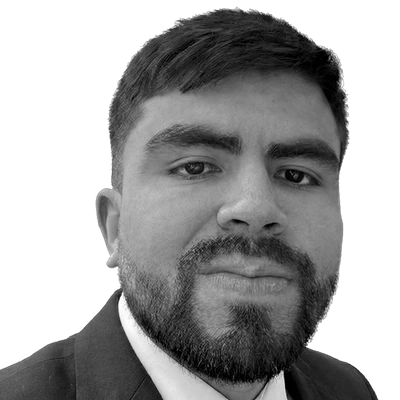
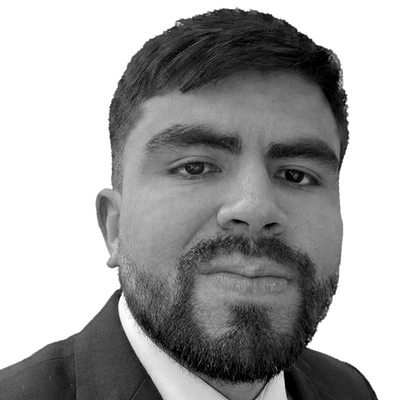
Fix the twelve findings from the UX audit
- Mobile menu: focus moves into the menu on open, Tab is trapped, main and
  footer become inert, and focus returns to the hamburger on close
- Project carousel: visible pause/resume control with aria-pressed; the hint
  says "Desliza" on touch instead of "Arrastra"
- Cards show a pointer cursor, open an on-site preview dialog instead of
  jumping to GitHub, and keep the repo link inside the dialog
- GitHub links in "otros proyectos" get specific accessible names
- Marquee pauses on hover
- Portrait recut: edge colours replaced so the white halo drops by 86%
- H1 keeps a space between the two words; card images use an empty alt;
  small mono labels move from 11 to 12px

diff --git a/src/components/Projects.tsx b/src/components/Projects.tsx
@@ -1,7 +1,8 @@
-import { useEffect, useRef } from 'react';
+import { useEffect, useRef, useState } from 'react';
 import { useTranslation } from 'react-i18next';
-import { showcaseProjects } from '../content/projects';
+import { showcaseProjects, type ShowcaseProject } from '../content/projects';
 import Reveal from './Reveal';
+import ProjectPreviewModal from './ProjectPreviewModal';
 
 interface ProjectCopy {
   title: string;
@@ -19,6 +20,10 @@ const SPEED = 45; // px per second
 export default function Projects() {
   const { t } = useTranslation();
   const railRef = useRef<HTMLDivElement>(null);
+  const [paused, setPaused] = useState(false);
+  const [preview, setPreview] = useState<ShowcaseProject | null>(null);
+  const pausedRef = useRef(false);
+  pausedRef.current = paused;
   const others = t('projects.items', { returnObjects: true }) as OtherProject[];
 
   // Drag to scroll
@@ -97,7 +102,8 @@ export default function Projects() {
     let last = performance.now();
     let position = rail.scrollLeft;
 
-    const paused = () => hovering || focused || dragging || !visible || document.hidden;
+    const isPaused = () =>
+      pausedRef.current || hovering || focused || dragging || !visible || document.hidden;
 
     const observer = new IntersectionObserver(
       ([entry]) => {
@@ -111,7 +117,7 @@ export default function Projects() {
       const delta = Math.min(64, now - last);
       last = now;
 
-      if (!paused()) {
+      if (!isPaused()) {
         position += (SPEED * delta) / 1000;
         while (position >= loopWidth) position -= loopWidth;
         rail.scrollLeft = position;
@@ -187,7 +193,8 @@ export default function Projects() {
             {t('kinetic.projectsLead')}
           </p>
         </Reveal>
-        <span className="rail-hint">{t('kinetic.dragHint')} →</span>
+        <span className="rail-hint hint-pointer">{t('kinetic.dragHint')} →</span>
+        <span className="rail-hint hint-touch">{t('kinetic.swipeHint')} →</span>
       </div>
 
       <div className="rail" ref={railRef}>
@@ -203,16 +210,23 @@ export default function Projects() {
               rel="noopener noreferrer"
               tabIndex={clone ? -1 : undefined}
               aria-hidden={clone || undefined}
+              aria-haspopup="dialog"
               draggable={false}
               onDragStart={(event) => event.preventDefault()}
+              onClick={(event) => {
+                // El clic abre la ficha en el sitio; el enlace queda como respaldo
+                if (event.metaKey || event.ctrlKey || event.shiftKey || index >= showcaseProjects.length) return;
+                event.preventDefault();
+                setPreview(project);
+              }}
             >
               <span className="go" aria-hidden="true">
-                ↗
+                →
               </span>
               <div className="shot">
                 <img
                   src={project.image}
-                  alt={clone ? '' : copy.title}
+                  alt=""
                   width={1440}
                   height={900}
                   loading="lazy"
@@ -231,6 +245,14 @@ export default function Projects() {
       <div className="rail-foot">
         <div className="rail-line" />
         <span className="rail-hint">01 — 04</span>
+        <button
+          type="button"
+          className="rail-toggle"
+          aria-pressed={paused}
+          onClick={() => setPaused((value) => !value)}
+        >
+          {paused ? t('kinetic.playLabel') : t('kinetic.pauseLabel')}
+        </button>
       </div>
 
       <Reveal className="others">
@@ -242,7 +264,12 @@ export default function Projects() {
                 <b>{project.title}</b> — {project.category}
               </span>
               {project.link ? (
-                <a href={project.link} target="_blank" rel="noopener noreferrer">
+                <a
+                  href={project.link}
+                  target="_blank"
+                  rel="noopener noreferrer"
+                  aria-label={`${t('kinetic.repoOf')} ${project.title}`}
+                >
                   GitHub ↗
                 </a>
               ) : (
@@ -252,6 +279,8 @@ export default function Projects() {
           ))}
         </ul>
       </Reveal>
+
+      {preview && <ProjectPreviewModal project={preview} onClose={() => setPreview(null)} />}
     </section>
   );
 }

diff --git a/src/components/MobileMenu.tsx b/src/components/MobileMenu.tsx
@@ -1,4 +1,4 @@
-import { useEffect } from 'react';
+import { useEffect, useRef } from 'react';
 import { Link, useLocation } from 'react-router-dom';
 import { useTranslation } from 'react-i18next';
 import { localizePath, pathLanguage } from '../i18n-paths';
@@ -16,18 +16,55 @@ export default function MobileMenu({ open, onClose }: MobileMenuProps) {
   const homePath = localizePath('/', language);
   const isHome = normalized === '/' || normalized === '/en';
   const href = (id: string) => (isHome ? `#${id}` : `${homePath}#${id}`);
+  const navRef = useRef<HTMLElement>(null);
+  const returnFocusRef = useRef<HTMLElement | null>(null);
 
+  // Bloquea el scroll y retira del foco el contenido que queda detrás
   useEffect(() => {
     const previous = document.body.style.overflow;
     document.body.style.overflow = open ? 'hidden' : previous;
+    const behind = [document.querySelector('main'), document.querySelector('footer')];
+    behind.forEach((el) => {
+      if (!el) return;
+      if (open) el.setAttribute('inert', '');
+      else el.removeAttribute('inert');
+    });
     return () => {
       document.body.style.overflow = previous;
+      behind.forEach((el) => el?.removeAttribute('inert'));
     };
   }, [open]);
 
+  // El foco entra al menú al abrirlo y vuelve al botón al cerrarlo
   useEffect(() => {
+    if (!open) return;
+    returnFocusRef.current = document.activeElement as HTMLElement | null;
+    navRef.current?.querySelector<HTMLElement>('a')?.focus();
+    return () => {
+      returnFocusRef.current?.focus();
+    };
+  }, [open]);
+
+  // Escape cierra; Tab queda atrapado entre los enlaces del menú
+  useEffect(() => {
+    if (!open) return;
     const onKeyDown = (event: KeyboardEvent) => {
-      if (event.key === 'Escape' && open) onClose();
+      if (event.key === 'Escape') {
+        onClose();
+        return;
+      }
+      if (event.key !== 'Tab' || !navRef.current) return;
+      const items = Array.from(navRef.current.querySelectorAll<HTMLElement>('a'));
+      if (items.length === 0) return;
+      const first = items[0];
+      const last = items[items.length - 1];
+      if (event.shiftKey && document.activeElement === first) {
+        event.preventDefault();
+        last.focus();
+      } else if (!event.shiftKey && document.activeElement === last) {
+        event.preventDefault();
+        first.focus();
+      }
     };
     document.addEventListener('keydown', onKeyDown);
     return () => document.removeEventListener('keydown', onKeyDown);
@@ -35,6 +72,7 @@ export default function MobileMenu({ open, onClose }: MobileMenuProps) {
 
   return (
     <nav
+      ref={navRef}
       id="mobile-nav"
       className={`mobile-nav ${open ? 'open' : ''}`}
       aria-hidden={!open}

diff --git a/src/styles/kinetic.css b/src/styles/kinetic.css
@@ -322,7 +322,7 @@ section[id], article[id] { scroll-margin-top: 96px; }
   scroll-behavior: auto;
   scroll-snap-type: none;
   padding-bottom: 18px;
-  cursor: grab;
+  cursor: pointer;
   scrollbar-width: none;
   margin: 0 calc(var(--pad) * -1);
   padding-left: var(--pad);
@@ -821,7 +821,7 @@ html.has-cursor * {
 }
 .sobre-facts dt {
   font-family: var(--mono);
-  font-size: 11px;
+  font-size: 12px;
   letter-spacing: 0.14em;
   text-transform: uppercase;
   color: var(--dim);
@@ -879,7 +879,7 @@ html.has-cursor * {
 }
 .sobre-row .yr {
   font-family: var(--mono);
-  font-size: 11px;
+  font-size: 12px;
   letter-spacing: 0.12em;
   text-transform: uppercase;
   color: var(--dim);
@@ -1109,4 +1109,32 @@ html.has-cursor * {
   }
   .latest-card { text-align: center; }
   .latest-card .latest-arrow { display: none; }
+}
+
+/* --- carrusel: control de pausa y pista según dispositivo ----------------- */
+.hint-touch { display: none; }
+@media (hover: none), (pointer: coarse) {
+  .hint-pointer { display: none; }
+  .hint-touch { display: inline; }
+}
+.rail-toggle {
+  font-family: var(--mono);
+  font-size: 11px;
+  letter-spacing: 0.12em;
+  text-transform: uppercase;
+  color: var(--dim);
+  background: none;
+  border: 1px solid var(--line);
+  border-radius: 99px;
+  padding: 6px 12px;
+  cursor: pointer;
+  transition: color 0.25s, border-color 0.25s;
+}
+.rail-toggle:hover { color: var(--fg); border-color: var(--line-strong); }
+.rail-toggle:focus-visible { outline: 2px solid var(--lime); outline-offset: 3px; }
+
+/* --- marquesina: se detiene al pasar el cursor --------------------------- */
+.marquee:hover .marquee-track { animation-play-state: paused; }
+@media (prefers-reduced-motion: reduce) {
+  .marquee:hover .marquee-track { animation-play-state: running; }
 }

diff --git a/src/components/Hero.tsx b/src/components/Hero.tsx
@@ -13,7 +13,7 @@ export default function Hero() {
         <div>
           <h1>
             <span className="hero-name">
-              Carlos
+              Carlos{' '}
               <br />
               <em>Gordillo</em>
             </span>
